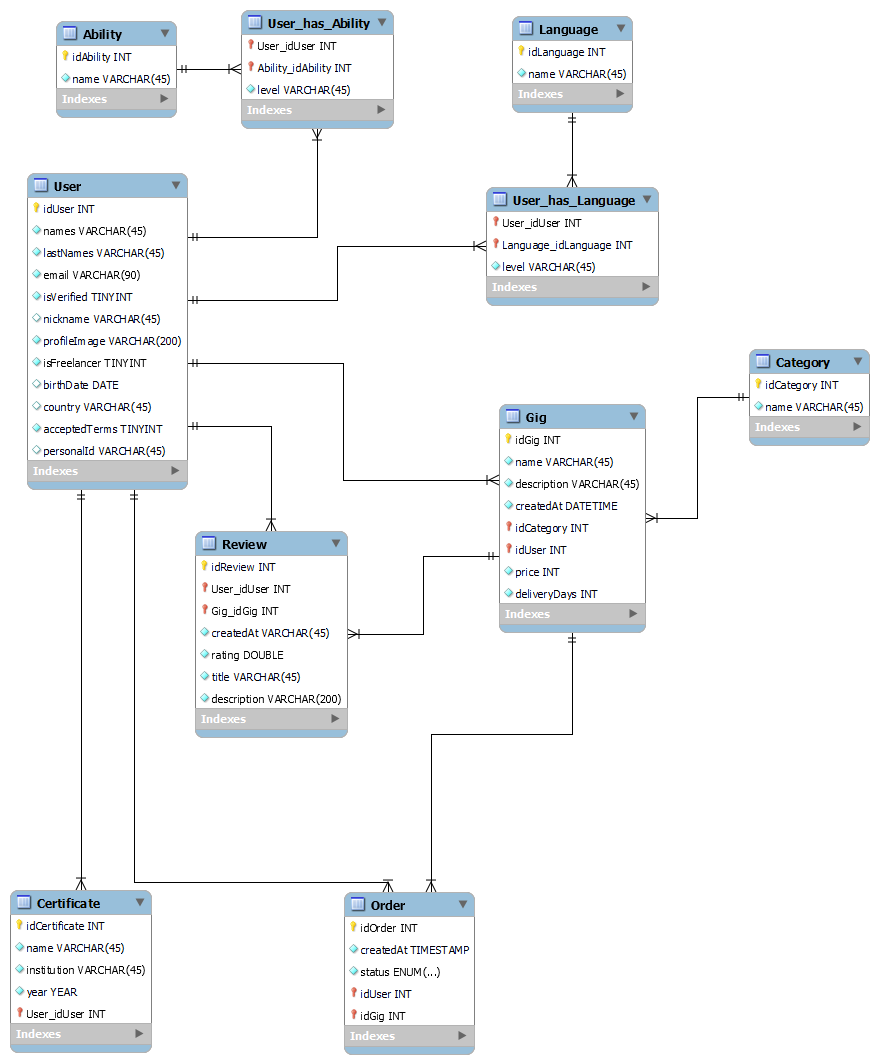
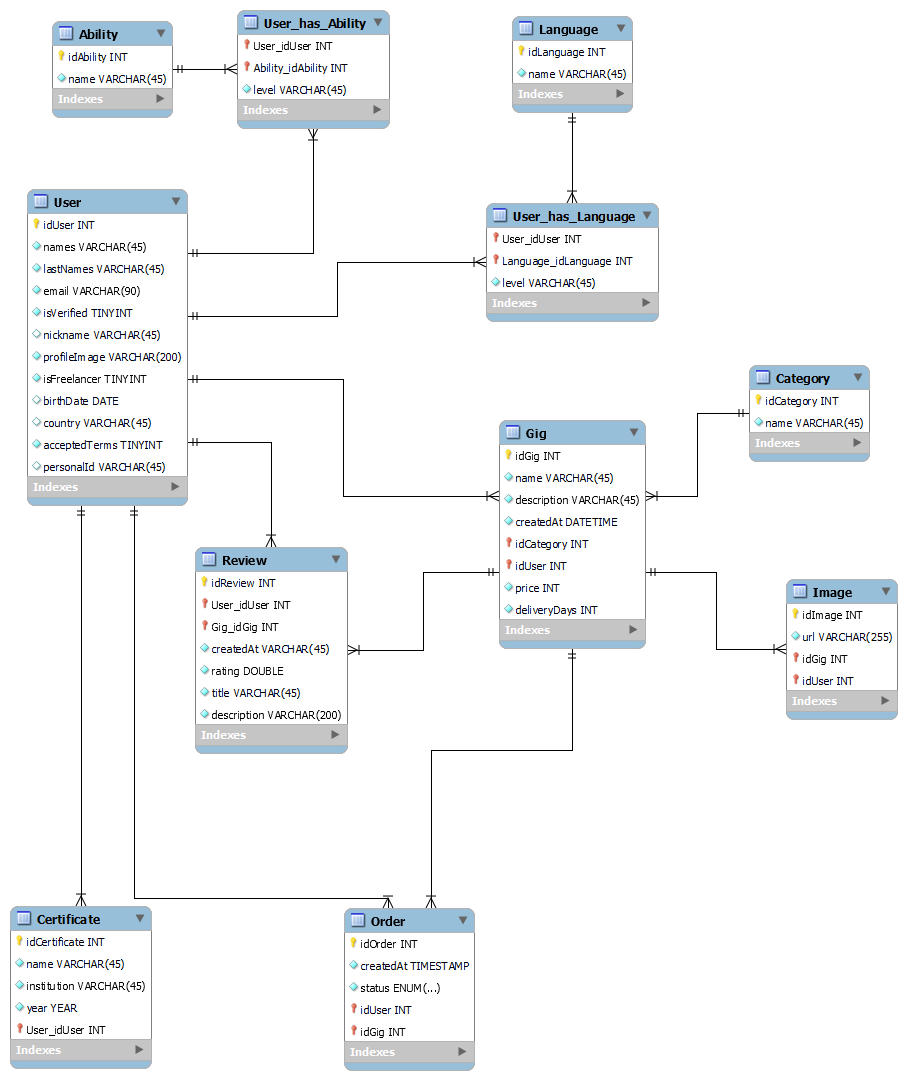
Imagenes en DB y Cloudinary

diff --git a/Back/src/index.js b/Back/src/index.js
@@ -1,10 +1,11 @@
 const express = require('express');
-var bodyParser = require('body-parser')
 const morgan = require('morgan');
-const mysql = require('mysql2');
-const app = express();
 const { auth } = require('express-openid-connect');
+const { v2 } = require ('cloudinary');
+
 require('dotenv').config()
+
+const app = express();
 
 const config = {
     authRequired: false,
@@ -15,6 +16,19 @@ const config = {
     issuerBaseURL: process.env.ISSUER
 };
 
+v2.config({ 
+  cloud_name: process.env.CLOUD_NAME, 
+  api_key: process.env.CLOUD_APIKEY, 
+  api_secret: process.env.CLOUD_SECRET 
+});
+
+/*
+Sample Upload Cloudinary
+v2.uploader.upload("https://upload.wikimedia.org/wikipedia/commons/a/ae/Olympic_flag.jpg",
+  { public_id: "olympic_flag" }, 
+  function(error, result) {console.log(result); });
+*/
+
 //Settings
 app.set('port', 3000);
 
@@ -23,12 +37,6 @@ app.set('port', 3000);
 app.use(auth(config));
 app.use(morgan('dev'));
 app.use(express.json());
-
-// create application/json parser
-var jsonParser = bodyParser.json()
- 
-// create application/x-www-form-urlencoded parser
-var urlencodedParser = bodyParser.urlencoded({ extended: false })
 
 //Rutas (Usa el router de express)
 app.use('/',require('./controllers/router'));

diff --git a/Back/src/controllers/ImageController.js b/Back/src/controllers/ImageController.js
@@ -1,0 +1,1 @@
+const conexion	= require('../database/db');
